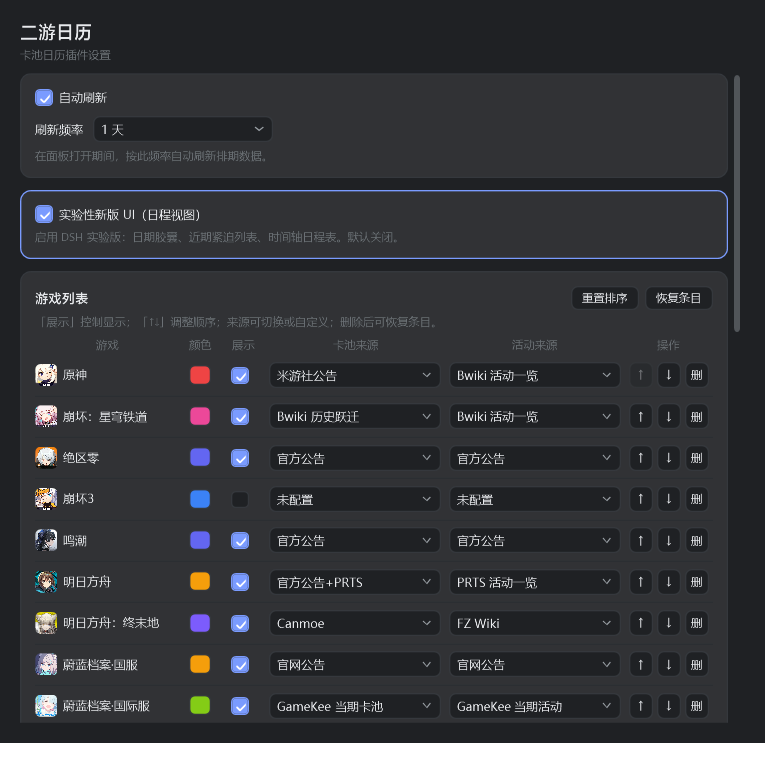
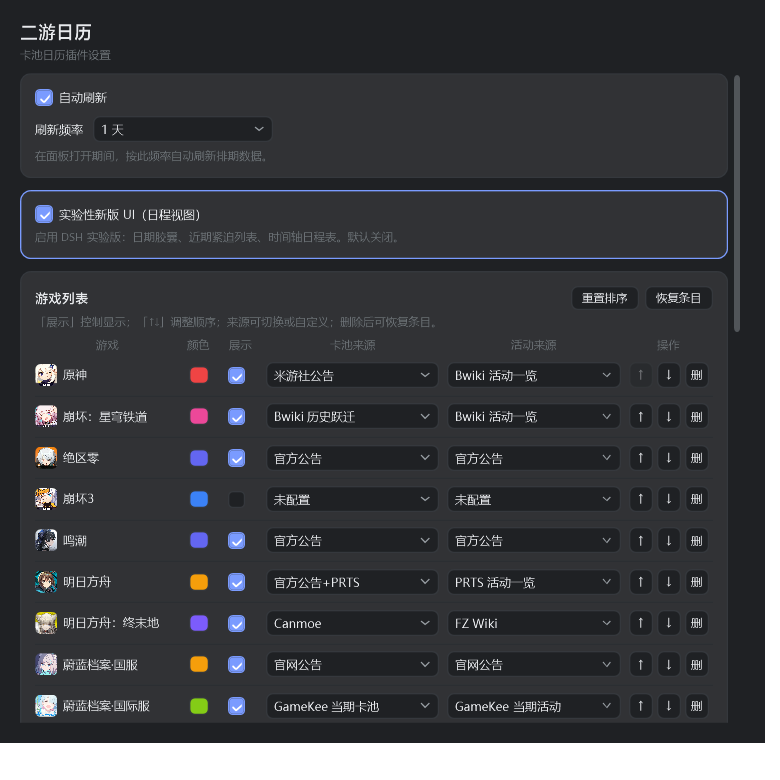
style: v0.1.24 探头保持与设置行 hover
- newPanel 探头移到另一格才切换、点击外部关闭并复位
- 设置页颜色块 20x18、行 hover、颜色列收紧
- 更新设置浅/深截图与视觉回归；版本 0.1.24

验证：dotnet build 0 警告 0 错误；npm test 34/34；npm run check 通过

diff --git a/src/GachaCalendar/Views/ScheduleView.xaml b/src/GachaCalendar/Views/ScheduleView.xaml
@@ -449,7 +449,7 @@
 									</StackPanel>
 
 									<StackPanel x:Name="GachaCell" Grid.Column="1" Margin="12,0,8,0"
-												Tag="{Binding Gacha}" MouseEnter="OnProbeEnter" MouseLeave="OnProbeLeave">
+												Tag="{Binding Gacha}" MouseEnter="OnProbeEnter">
 										<TextBlock Text="{Binding Gacha.Show, TargetNullValue=—}" Style="{StaticResource SchedCellTitle}"
 												   ToolTip="{Binding Gacha.Tip}" />
 										<TextBlock Text="{Binding Gacha.MetaText, TargetNullValue=该来源无数据}" Style="{StaticResource SchedCellMeta}"
@@ -480,7 +480,7 @@
 										</ItemsControl>
 										<Popup PlacementTarget="{Binding ElementName=GachaCell}" Placement="Bottom"
 											   IsOpen="{Binding IsProbeOpen}" AllowsTransparency="True" StaysOpen="False"
-											   PopupAnimation="Fade" DataContext="{Binding Gacha}">
+											   PopupAnimation="Fade" DataContext="{Binding Gacha}" Closed="OnProbeClosed">
 											<Border Background="{DynamicResource PanelBg}" BorderBrush="{DynamicResource PanelBorder}"
 													BorderThickness="1" CornerRadius="8" Padding="10" MaxWidth="320">
 												<StackPanel>
@@ -503,7 +503,7 @@
 									</StackPanel>
 
 									<StackPanel x:Name="EventCell" Grid.Column="2" Margin="12,0,8,0"
-												Tag="{Binding Event}" MouseEnter="OnProbeEnter" MouseLeave="OnProbeLeave">
+												Tag="{Binding Event}" MouseEnter="OnProbeEnter">
 										<TextBlock Text="{Binding Event.Show, TargetNullValue=—}" Style="{StaticResource SchedCellTitle}"
 												   ToolTip="{Binding Event.Tip}" />
 										<TextBlock Text="{Binding Event.MetaText, TargetNullValue=该来源无数据}" Style="{StaticResource SchedCellMeta}"
@@ -534,7 +534,7 @@
 										</ItemsControl>
 										<Popup PlacementTarget="{Binding ElementName=EventCell}" Placement="Bottom"
 											   IsOpen="{Binding IsProbeOpen}" AllowsTransparency="True" StaysOpen="False"
-											   PopupAnimation="Fade" DataContext="{Binding Event}">
+											   PopupAnimation="Fade" DataContext="{Binding Event}" Closed="OnProbeClosed">
 											<Border Background="{DynamicResource PanelBg}" BorderBrush="{DynamicResource PanelBorder}"
 													BorderThickness="1" CornerRadius="8" Padding="10" MaxWidth="320">
 												<StackPanel>

diff --git a/src/GachaCalendar/Views/SettingsWindow.xaml b/src/GachaCalendar/Views/SettingsWindow.xaml
@@ -288,7 +288,7 @@
 						<Grid Margin="0,0,0,4">
 							<Grid.ColumnDefinitions>
 								<ColumnDefinition Width="0.8*" />
-								<ColumnDefinition Width="42" />
+								<ColumnDefinition Width="38" />
 								<ColumnDefinition Width="44" />
 								<ColumnDefinition Width="*" />
 								<ColumnDefinition Width="*" />

diff --git a/src/GachaCalendar/Views/SettingsWindow.xaml.cs b/src/GachaCalendar/Views/SettingsWindow.xaml.cs
@@ -141,11 +141,16 @@ public partial class SettingsWindow : Window
 				BorderThickness = new Thickness(0, 0, 0, 1),
 				Padding = new Thickness(0, 7, 0, 7),
 			};
+			var rowStyle = new Style(typeof(Border));
+			var hover = new Trigger { Property = UIElement.IsMouseOverProperty, Value = true };
+			hover.Setters.Add(new Setter(Border.BackgroundProperty, (Brush)FindResource("HoverBg")));
+			rowStyle.Triggers.Add(hover);
+			card.Style = rowStyle;
 			var stack = new StackPanel();
 
 			var grid = new Grid();
 			grid.ColumnDefinitions.Add(new ColumnDefinition { Width = new GridLength(0.8, GridUnitType.Star) });
-			grid.ColumnDefinitions.Add(new ColumnDefinition { Width = new GridLength(42) });
+			grid.ColumnDefinitions.Add(new ColumnDefinition { Width = new GridLength(38) });
 			grid.ColumnDefinitions.Add(new ColumnDefinition { Width = new GridLength(44) });
 			grid.ColumnDefinitions.Add(new ColumnDefinition { Width = new GridLength(1, GridUnitType.Star) });
 			grid.ColumnDefinitions.Add(new ColumnDefinition { Width = new GridLength(1, GridUnitType.Star) });
@@ -669,8 +674,8 @@ public partial class SettingsWindow : Window
 	{
 		var swatch = new Border
 		{
-			Width = 22,
-			Height = 20,
+			Width = 20,
+			Height = 18,
 			CornerRadius = new CornerRadius(5),
 			Background = ColorFor(entry),
 			BorderBrush = (Brush)FindResource("PanelBorder"),

diff --git a/src/GachaCalendar/Views/ScheduleView.xaml.cs b/src/GachaCalendar/Views/ScheduleView.xaml.cs
@@ -30,14 +30,21 @@ public partial class ScheduleView : UserControl
 		if (DataContext is SchedulePanelVm vm) vm.SetHovered(false);
 	}
 
+	private ScheduleItemVm? _openProbe;
+
 	private void OnProbeEnter(object sender, MouseEventArgs e)
 	{
-		if (sender is FrameworkElement { Tag: ScheduleItemVm item }) item.IsProbeOpen = item.HasExtras;
+		if (sender is not FrameworkElement { Tag: ScheduleItemVm item } || !item.HasExtras) return;
+		if (ReferenceEquals(_openProbe, item) && item.IsProbeOpen) return;
+		if (_openProbe != null) _openProbe.IsProbeOpen = false;
+		_openProbe = item;
+		item.IsProbeOpen = true;
 	}
 
-	private void OnProbeLeave(object sender, MouseEventArgs e)
+	private void OnProbeClosed(object? sender, EventArgs e)
 	{
-		if (sender is FrameworkElement { Tag: ScheduleItemVm item }) item.IsProbeOpen = false;
+		if (sender is System.Windows.Controls.Primitives.Popup { DataContext: ScheduleItemVm item })
+			item.IsProbeOpen = false;
 	}
 
 	private void OnExpand(object sender, RoutedEventArgs e)

diff --git a/docs/04-路线图.md b/docs/04-路线图.md
@@ -235,7 +235,14 @@ Fluent/DSH 风格外观已列入 [BACKLOG.md](../BACKLOG.md)。
 - [x] 面板 180ms 淡入 + 上移动效
 - [ ] 主面板字重/行距继续贴近 DSH
 
-## v0.1.24 · 任务栏体验打磨
+## v0.1.24 · 探头保持与设置行 hover（2026-10-21）
+
+- [x] 探头不再移出即关；移到另一格切换、点击外部关闭并复位
+- [x] 设置页颜色块 20×18、行 hover、颜色列收紧
+- [x] 更新设置浅/深截图与视觉回归
+- [ ] 主面板字重/行距继续贴近 DSH
+
+## v0.1.25 · 任务栏体验打磨
 
 - [ ] 多显示器：主屏 / 每屏一份（设置项）
 - [ ] 任务栏自动隐藏时跟随（贴屏幕边缘而非消失）
@@ -245,7 +252,7 @@ Fluent/DSH 风格外观已列入 [BACKLOG.md](../BACKLOG.md)。
 - [ ] 点击外部关闭面板、Esc、快捷键（可选 Win+Alt+G）
 - [ ] 电源/锁屏/睡眠恢复后的任务栏重定位
 
-## v0.1.25 · 分发工程化
+## v0.1.26 · 分发工程化
 
 - [ ] `publish` 脚本：自包含 single-file zip + 框架依赖 zip
 - [ ] 安装包（Inno Setup 或 MSIX）：开始菜单、卸载清理自启项
@@ -254,7 +261,7 @@ Fluent/DSH 风格外观已列入 [BACKLOG.md](../BACKLOG.md)。
 - [ ] 性能预算：空闲内存 ≤ 120MB、CPU ≤ 0.1%、启动 ≤ 2s
 - [ ] 首次运行引导：数据从哪来、如何刷新、如何关掉原生小组件避免重叠
 
-## v0.1.26 · 商店与打磨
+## v0.1.27 · 商店与打磨
 
 - [ ] 代码签名（SmartScreen）
 - [ ] Microsoft Store / MSIX 上架评估

diff --git a/README.md b/README.md
@@ -50,7 +50,7 @@
 | 深浅色 token / 视觉验收清单 | ✅ v0.1.10（[验收清单](docs/11-DSH面板复刻验收.md)） |
 | 实验性 newPanel（日程视图） | 🚧 v0.1.12 基础版（设置页可开启） |
 | 颜色取色器 / DPI 截图 / 内置 Node 打包 | ✅ v0.1.13–0.1.14（`tools/publish.ps1`） |
-| 视觉打磨 / 新控件 / 小屏设置窗口 | ✅ v0.1.16–0.1.23（含深色/标题栏视觉回归） |
+| 视觉打磨 / 新控件 / 小屏设置窗口 | ✅ v0.1.16–0.1.24（含深色/标题栏视觉回归） |
 | Fluent / DSH 交互细节与视觉回归 | 📋 待办（[#1](https://github.com/EastMG/gacha-calendar/issues/1) / [BACKLOG.md](BACKLOG.md)） |
 | 多显示器、轮播、安装包 | 🚧 v0.1.10+（见[路线图](docs/04-路线图.md)） |
 

diff --git a/docs/11-DSH面板复刻验收.md b/docs/11-DSH面板复刻验收.md
@@ -32,7 +32,7 @@
 | 14 天时间轴日程表 | 158px 游戏列 + 卡池/活动两栏 + 14 格条形；活动条混浅色 | 同上 |
 | 刷新失败横条 + 重试 | `FailureText` / `FailureTip` + 重试按钮 | 代码 |
 | 底栏状态/上次更新/刷新 | `ScrapeText` / `UpdatedAgo` / 刷新按钮 | 同上 |
-| 同格多档期探头展开 | 解析 hover 原文，悬停单元格弹出「同格档期」卡片 | v0.1.20 |
+| 同格多档期探头展开 | 解析 hover 原文，悬停单元格弹出「同格档期」卡片；移到另一格切换、点击外部关闭 | v0.1.24 |
 
 ## 3. 设置页
 

diff --git a/CHANGELOG.md b/CHANGELOG.md
@@ -1,5 +1,13 @@
 # CHANGELOG
 
+## v0.1.24 · 2026-10-21
+
+- newPanel 探头：不再鼠标一移出单元格就关闭；改为「移到另一格才切换 / 点击外部关闭」，
+  关闭时复位 IsProbeOpen
+- 设置页：颜色色块缩小到 20×18、行 hover 背景、颜色列收紧
+- 更新设置页浅/深截图与 2×2 视觉回归图
+- 版本 0.1.24
+
 ## v0.1.23 · 2026-10-21
 
 - 主面板/newPanel 倒计时与日期列启用 tabular numerals，数字不再跳动
